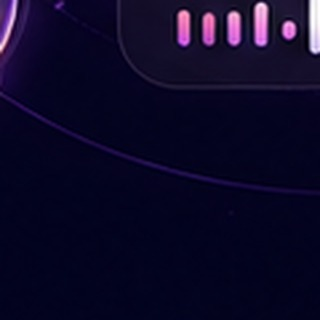
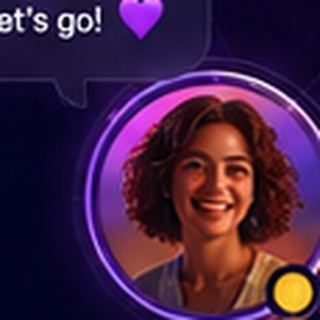
checkpoint: before final hero polish

diff --git a/src/components/hero/hero-section.tsx b/src/components/hero/hero-section.tsx
@@ -4,7 +4,6 @@ import Image from "next/image";
 import Link from "next/link";
 import {
   ArrowDown,
-  ArrowRight,
   Globe2,
   Monitor,
   Play,
@@ -25,41 +24,46 @@ type Member = {
   active?: boolean;
   status: string;
   message: string;
+  bubble: string;
 };
 
 const members: Member[] = [
   {
     name: "Maya",
     avatar: "/avatars/maya.jpg",
-    position: "left-[2%] top-[17%]",
+    position: "left-[5%] top-[13%]",
     delay: 0,
     active: true,
     status: "bg-emerald-400",
     message: "Hey everyone! 👋",
+    bubble: "left-1/2 -translate-x-1/2",
   },
   {
     name: "Alex",
     avatar: "/avatars/alex.jpg",
-    position: "right-[2%] top-[20%]",
+    position: "right-[4%] top-[18%]",
     delay: 0.4,
     status: "bg-emerald-400",
     message: "Great to be here! 🚀",
+    bubble: "right-[-22px]",
   },
   {
     name: "Luna",
     avatar: "/avatars/luna.jpg",
-    position: "bottom-[11%] left-[10%]",
+    position: "bottom-[8%] left-[11%]",
     delay: 0.8,
     status: "bg-amber-300",
     message: "Let's go! 💜",
+    bubble: "left-1/2 -translate-x-1/2",
   },
   {
     name: "Noah",
     avatar: "/avatars/noah.jpg",
-    position: "bottom-[9%] right-[7%]",
+    position: "bottom-[6%] right-[8%]",
     delay: 1.2,
     status: "bg-emerald-400",
     message: "Awesome talk! 🔥",
+    bubble: "right-[-18px]",
   },
 ];
 
@@ -73,37 +77,41 @@ export function HeroSection() {
   return (
     <section className="relative overflow-hidden pt-20">
       <StarField />
-      <div className="grid-background absolute inset-0 opacity-30" />
-      <div className="noise-overlay pointer-events-none absolute inset-0 opacity-[.035]" />
-      <div className="absolute inset-0 bg-[radial-gradient(circle_at_75%_38%,rgba(192,38,255,.18),transparent_30%),radial-gradient(circle_at_20%_24%,rgba(88,28,135,.12),transparent_32%)]" />
+      <div className="grid-background absolute inset-0 opacity-25" />
+      <div className="noise-overlay pointer-events-none absolute inset-0 opacity-[0.03]" />
+      <div className="absolute inset-0 bg-[radial-gradient(circle_at_76%_36%,rgba(192,38,255,.22),transparent_29%),radial-gradient(circle_at_18%_28%,rgba(88,28,135,.14),transparent_33%)]" />
 
-      <div className="relative mx-auto grid min-h-[740px] w-full max-w-[1480px] items-center gap-10 px-5 pb-10 pt-12 sm:px-8 lg:grid-cols-[.83fr_1.17fr] lg:px-12 lg:pt-14">
+      <div className="relative mx-auto grid min-h-[625px] w-full max-w-[1320px] items-center gap-6 px-5 pb-5 pt-7 sm:px-8 lg:grid-cols-[0.82fr_1.18fr] lg:px-10">
         <motion.div
-          initial={{ opacity: 0, y: 28 }}
+          initial={{ opacity: 0, y: 24 }}
           animate={{ opacity: 1, y: 0 }}
-          transition={{ duration: .75, ease: "easeOut" }}
-          className="relative z-10 max-w-[620px]"
+          transition={{ duration: 0.7, ease: "easeOut" }}
+          className="relative z-10 max-w-[535px]"
         >
-          <div className="mb-7 inline-flex items-center gap-2 rounded-full border border-fuchsia-400/25 bg-fuchsia-400/10 px-4 py-2 text-xs font-bold uppercase tracking-[.2em] text-fuchsia-100">
+          <div className="mb-6 inline-flex items-center gap-2 rounded-full border border-fuchsia-400/25 bg-fuchsia-400/10 px-4 py-2 text-[11px] font-bold uppercase tracking-[0.2em] text-fuchsia-100">
             <Sparkles className="size-4" />
             The future of voice communities
           </div>
 
-          <h1 className="font-[family-name:var(--font-display)] text-5xl font-bold leading-[.95] tracking-[-.06em] text-white sm:text-6xl xl:text-[78px]">
+          <h1 className="font-[family-name:var(--font-display)] text-5xl font-bold leading-[0.94] tracking-[-0.06em] text-white sm:text-6xl xl:text-[66px]">
             <span className="block">Your voice.</span>
             <span className="text-gradient mt-2 block">Your community.</span>
           </h1>
 
-          <p className="mt-7 max-w-[575px] text-base leading-8 text-white/60 sm:text-lg">
-            Where conversations become communities. Meet people who understand your world, speak freely and build something meaningful together.
+          <p className="mt-6 max-w-[500px] text-[15px] leading-7 text-white/62">
+            Where conversations become communities. Meet people who understand
+            your world, speak freely and build something meaningful together.
           </p>
 
-          <div className="mt-9 flex flex-col gap-4 sm:flex-row">
-            <Link href="#download" className="premium-button focus-ring min-h-14 px-7">
+          <div className="mt-8 flex flex-col gap-3 sm:flex-row">
+            <Link href="#download" className="premium-button focus-ring min-h-12 px-6 text-sm">
               <span className="relative">Download YO Voice</span>
-              <ArrowDown className="relative size-5" />
+              <ArrowDown className="relative size-4" />
             </Link>
-            <Link href="#experience" className="focus-ring inline-flex min-h-14 items-center justify-center gap-3 rounded-2xl border border-white/15 bg-white/[.035] px-7 font-semibold text-white backdrop-blur-xl transition hover:border-white/25 hover:bg-white/[.07]">
+            <Link
+              href="#experience"
+              className="focus-ring inline-flex min-h-12 items-center justify-center gap-3 rounded-2xl border border-white/15 bg-white/[0.035] px-6 text-sm font-semibold text-white backdrop-blur-xl transition hover:border-white/25 hover:bg-white/[0.07]"
+            >
               <span className="flex size-8 items-center justify-center rounded-full bg-white text-[#0d0618]">
                 <Play className="ml-0.5 size-4 fill-current" />
               </span>
@@ -111,17 +119,22 @@ export function HeroSection() {
             </Link>
           </div>
 
-          <div className="mt-9 flex flex-wrap gap-x-7 gap-y-4 text-sm text-white/50">
+          <div className="mt-7 flex flex-wrap gap-x-6 gap-y-3 text-[13px] text-white/50">
             <span className="flex items-center gap-2"><Radio className="size-4 text-fuchsia-400" />Live voice rooms</span>
             <span className="flex items-center gap-2"><Users className="size-4 text-violet-400" />Clubs and friends</span>
             <span className="flex items-center gap-2"><Sparkles className="size-4 text-pink-400" />Built for creators</span>
           </div>
 
-          <div className="mt-10">
-            <p className="text-[10px] font-bold uppercase tracking-[.24em] text-white/30">Available across your devices</p>
-            <div className="mt-4 flex flex-wrap gap-3">
+          <div className="mt-8">
+            <p className="text-[9px] font-bold uppercase tracking-[0.24em] text-white/30">
+              Available across your devices
+            </p>
+            <div className="mt-3 flex flex-wrap gap-3">
               {platforms.map(({ label, icon: Icon }) => (
-                <div key={label} className="flex items-center gap-2 rounded-xl border border-white/[.09] bg-white/[.035] px-3.5 py-2 text-xs text-white/55 backdrop-blur-xl">
+                <div
+                  key={label}
+                  className="flex items-center gap-2 rounded-xl border border-white/[0.09] bg-white/[0.035] px-3 py-2 text-[11px] text-white/55 backdrop-blur-xl"
+                >
                   <Icon className="size-3.5 text-fuchsia-300" />
                   {label}
                 </div>
@@ -132,47 +145,70 @@ export function HeroSection() {
 
         <motion.div
           id="community"
-          initial={{ opacity: 0, scale: .92 }}
+          initial={{ opacity: 0, scale: 0.93 }}
           animate={{ opacity: 1, scale: 1 }}
-          transition={{ duration: .9, delay: .12, ease: "easeOut" }}
-          className="relative mx-auto aspect-[1.12/1] w-full max-w-[780px]"
+          transition={{ duration: 0.85, delay: 0.1, ease: "easeOut" }}
+          className="relative mx-auto aspect-[1.16/1] w-full max-w-[690px]"
         >
-          <div className="absolute inset-[8%] rounded-full border border-fuchsia-300/[.12]" />
-          <div className="absolute inset-[19%] rounded-full border border-fuchsia-300/[.15]" />
-          <div className="absolute inset-[31%] rounded-full border border-fuchsia-300/[.18]" />
+          <div className="absolute inset-[7%] rounded-full border border-fuchsia-300/[0.13]" />
+          <div className="absolute inset-[18%] rounded-full border border-fuchsia-300/[0.16]" />
+          <div className="absolute inset-[31%] rounded-full border border-fuchsia-300/[0.2]" />
 
           <motion.div
             animate={{ rotate: 360 }}
             transition={{ duration: 72, repeat: Infinity, ease: "linear" }}
-            className="absolute inset-[13%] rounded-full border border-dashed border-fuchsia-300/[.16]"
+            className="absolute inset-[12%] rounded-full border border-dashed border-fuchsia-300/[0.16]"
           />
 
-          <div className="absolute left-1/2 top-1/2 h-[2px] w-[53%] -translate-x-1/2 -translate-y-1/2 bg-gradient-to-r from-transparent via-fuchsia-400/55 to-transparent shadow-[0_0_20px_rgba(232,121,249,.45)]" />
+          <div className="absolute left-1/2 top-1/2 h-[2px] w-[54%] -translate-x-1/2 -translate-y-1/2 bg-gradient-to-r from-transparent via-fuchsia-400/60 to-transparent shadow-[0_0_22px_rgba(232,121,249,.48)]" />
 
           <motion.div
-            animate={{ scale: [1, 1.055, 1], filter: ["brightness(1)", "brightness(1.18)", "brightness(1)"] }}
+            animate={{
+              scale: [1, 1.045, 1],
+              filter: ["brightness(1)", "brightness(1.15)", "brightness(1)"],
+            }}
             transition={{ duration: 3, repeat: Infinity, ease: "easeInOut" }}
-            className="absolute inset-[37%] flex items-center justify-center rounded-full border border-fuchsia-200/35 bg-[#09030f] shadow-[0_0_130px_rgba(192,38,255,.58)]"
+            className="absolute inset-[39%] flex items-center justify-center rounded-full border border-fuchsia-200/35 bg-[#09030f] shadow-[0_0_115px_rgba(192,38,255,.6)]"
           >
-            <motion.span className="absolute inset-[-22%] rounded-full border border-fuchsia-300/15" animate={{ scale: [.82, 1.28], opacity: [.55, 0] }} transition={{ duration: 2.5, repeat: Infinity, ease: "easeOut" }} />
-            <motion.span className="absolute inset-[-42%] rounded-full border border-violet-300/10" animate={{ scale: [.8, 1.2], opacity: [.35, 0] }} transition={{ duration: 3.2, delay: .7, repeat: Infinity, ease: "easeOut" }} />
-            <Image src="/logos/yovoice-logo.png" alt="YO Voice community heart" fill className="rounded-full object-cover mix-blend-screen" priority />
+            <motion.span
+              className="absolute inset-[-22%] rounded-full border border-fuchsia-300/16"
+              animate={{ scale: [0.82, 1.28], opacity: [0.55, 0] }}
+              transition={{ duration: 2.5, repeat: Infinity, ease: "easeOut" }}
+            />
+            <Image
+              src="/logos/yovoice-logo.png"
+              alt="YO Voice community heart"
+              fill
+              className="rounded-full object-cover mix-blend-screen"
+              priority
+            />
           </motion.div>
 
           {members.map((member, index) => (
             <motion.div
               key={member.name}
-              animate={{ y: [0, index % 2 === 0 ? -8 : 8, 0], x: [0, index % 2 === 0 ? 4 : -4, 0] }}
-              transition={{ duration: 4 + index * .35, repeat: Infinity, ease: "easeInOut", delay: member.delay }}
+              animate={{
+                y: [0, index % 2 === 0 ? -7 : 7, 0],
+                x: [0, index % 2 === 0 ? 4 : -4, 0],
+              }}
+              transition={{
+                duration: 4 + index * 0.35,
+                repeat: Infinity,
+                ease: "easeInOut",
+                delay: member.delay,
+              }}
               className={`absolute ${member.position}`}
             >
               <div className="relative">
                 <motion.div
-                  animate={{ opacity: [0, 1, 1, 0], y: [8, 0, 0, -5] }}
-                  transition={{ duration: 5.4, repeat: Infinity, delay: member.delay * 1.8 + .6, times: [0, .12, .82, 1] }}
-                  className={`absolute bottom-[calc(100%+16px)] z-20 whitespace-nowrap rounded-2xl border border-white/10 bg-[#171022]/92 px-4 py-3 text-xs font-medium text-white shadow-[0_14px_38px_rgba(0,0,0,.35)] backdrop-blur-xl ${
-                    index % 2 === 0 ? "left-1/2 -translate-x-1/2" : "right-0"
-                  }`}
+                  animate={{ opacity: [0, 1, 1, 0], y: [7, 0, 0, -5] }}
+                  transition={{
+                    duration: 5.6,
+                    repeat: Infinity,
+                    delay: member.delay * 1.9 + 0.5,
+                    times: [0, 0.12, 0.82, 1],
+                  }}
+                  className={`absolute bottom-[calc(100%+14px)] z-20 whitespace-nowrap rounded-2xl border border-white/10 bg-[#171022]/94 px-4 py-3 text-[11px] font-medium text-white shadow-[0_14px_38px_rgba(0,0,0,.35)] backdrop-blur-xl ${member.bubble}`}
                 >
                   {member.message}
                   <span className="absolute -bottom-1.5 left-1/2 size-3 -translate-x-1/2 rotate-45 border-b border-r border-white/10 bg-[#171022]" />
@@ -180,39 +216,66 @@ export function HeroSection() {
 
                 {member.active && (
                   <>
-                    <motion.span className="absolute inset-[-20px] rounded-full border border-fuchsia-300/30" animate={{ scale: [.82, 1.55], opacity: [.85, 0] }} transition={{ duration: 1.8, repeat: Infinity, ease: "easeOut" }} />
-                    <motion.span className="absolute inset-[-11px] rounded-full border border-fuchsia-300/35" animate={{ scale: [.9, 1.85], opacity: [.68, 0] }} transition={{ duration: 2.25, delay: .45, repeat: Infinity, ease: "easeOut" }} />
+                    <motion.span
+                      className="absolute inset-[-18px] rounded-full border border-fuchsia-300/30"
+                      animate={{ scale: [0.82, 1.52], opacity: [0.8, 0] }}
+                      transition={{ duration: 1.8, repeat: Infinity, ease: "easeOut" }}
+                    />
+                    <motion.span
+                      className="absolute inset-[-10px] rounded-full border border-fuchsia-300/35"
+                      animate={{ scale: [0.9, 1.8], opacity: [0.66, 0] }}
+                      transition={{ duration: 2.2, delay: 0.45, repeat: Infinity, ease: "easeOut" }}
+                    />
                   </>
                 )}
 
-                <div className="relative size-[76px] overflow-hidden rounded-full border-2 border-fuchsia-300/55 bg-[#150c22] p-[3px] shadow-[0_0_30px_rgba(192,38,255,.45)]">
-                  <Image src={member.avatar} alt={`${member.name} avatar`} fill className="rounded-full object-cover" />
+                <div className="relative size-[70px] overflow-hidden rounded-full border-2 border-fuchsia-300/60 bg-[#150c22] p-[3px] shadow-[0_0_30px_rgba(192,38,255,.48)]">
+                  <Image
+                    src={member.avatar}
+                    alt={`${member.name} avatar`}
+                    fill
+                    className="rounded-full object-cover"
+                    sizes="70px"
+                  />
                   <span className={`absolute bottom-0 right-0 size-4 rounded-full border-[3px] border-[#12091e] ${member.status}`} />
                 </div>
-                <span className="absolute -bottom-7 left-1/2 -translate-x-1/2 whitespace-nowrap text-xs font-medium text-white/62">{member.name}</span>
+                <span className="absolute -bottom-6 left-1/2 -translate-x-1/2 whitespace-nowrap text-[11px] font-medium text-white/62">
+                  {member.name}
+                </span>
               </div>
             </motion.div>
           ))}
 
           <motion.div
-            animate={{ y: [0, -4, 0] }}
+            animate={{ y: [0, -3, 0] }}
             transition={{ duration: 3.4, repeat: Infinity, ease: "easeInOut" }}
-            className="glass-panel absolute bottom-[14%] left-1/2 w-[255px] -translate-x-1/2 rounded-2xl px-5 py-4 text-center"
+            className="glass-panel absolute bottom-[11%] left-1/2 w-[235px] -translate-x-1/2 rounded-2xl px-5 py-4 text-center"
           >
-            <p className="text-[9px] font-bold uppercase tracking-[.22em] text-fuchsia-300/80">Heart of the Community</p>
+            <p className="text-[8px] font-bold uppercase tracking-[0.22em] text-fuchsia-300/80">
+              Heart of the Community
+            </p>
             <p className="mt-1.5 text-sm font-semibold text-white">Maya is speaking</p>
             <div className="mt-3 flex h-5 items-end justify-center gap-1">
               {[10, 18, 13, 20, 15, 8, 17, 11, 14, 19].map((height, i) => (
-                <motion.span key={i} animate={{ height: [5, height, 5] }} transition={{ duration: .65 + i * .05, repeat: Infinity, ease: "easeInOut" }} className="w-1 rounded-full bg-gradient-to-t from-violet-500 to-fuchsia-300" />
+                <motion.span
+                  key={i}
+                  animate={{ height: [5, height, 5] }}
+                  transition={{ duration: 0.65 + i * 0.05, repeat: Infinity, ease: "easeInOut" }}
+                  className="w-1 rounded-full bg-gradient-to-t from-violet-500 to-fuchsia-300"
+                />
               ))}
             </div>
           </motion.div>
         </motion.div>
       </div>
 
-      <div className="relative mx-auto max-w-[1420px] px-5 pb-8 sm:px-8 lg:px-12">
-        <a href="#stats" className="focus-ring mx-auto flex size-11 items-center justify-center rounded-xl border border-white/10 bg-white/[.035] text-white/60 transition hover:bg-white/[.07] hover:text-white" aria-label="Scroll to statistics">
-          <ArrowDown className="size-5" />
+      <div className="relative mx-auto max-w-[1320px] px-5 pb-5 sm:px-8 lg:px-10">
+        <a
+          href="#stats"
+          className="focus-ring mx-auto flex size-10 items-center justify-center rounded-xl border border-white/10 bg-white/[0.035] text-white/60 transition hover:bg-white/[0.07] hover:text-white"
+          aria-label="Scroll to statistics"
+        >
+          <ArrowDown className="size-4" />
         </a>
       </div>
     </section>

diff --git a/src/components/sections/stats-section.tsx b/src/components/sections/stats-section.tsx
@@ -9,13 +9,20 @@ const stats = [
 
 export function StatsSection() {
   return (
-    <section id="stats" className="relative bg-[#060511] px-5 pb-10 sm:px-8 lg:px-12">
-      <div className="mx-auto grid max-w-[1400px] overflow-hidden rounded-2xl border border-fuchsia-300/[.14] bg-[#0b0817]/78 shadow-[0_20px_80px_rgba(0,0,0,.25)] backdrop-blur-xl sm:grid-cols-2 lg:grid-cols-4">
+    <section id="stats" className="relative bg-[#060511] px-5 pb-8 sm:px-8 lg:px-10">
+      <div className="mx-auto grid max-w-[1320px] overflow-hidden rounded-2xl border border-fuchsia-300/[0.14] bg-[#0b0817]/82 shadow-[0_20px_80px_rgba(0,0,0,.25)] backdrop-blur-xl sm:grid-cols-2 lg:grid-cols-4">
         {stats.map(({ icon: Icon, value, label }, index) => (
-          <div key={label} className={`flex items-center justify-center gap-5 px-8 py-7 ${index ? "border-t border-white/[.08] sm:border-l sm:border-t-0" : ""}`}>
-            <Icon className="size-9 text-fuchsia-400" />
+          <div
+            key={label}
+            className={`flex items-center justify-center gap-4 px-7 py-6 ${
+              index ? "border-t border-white/[0.08] sm:border-l sm:border-t-0" : ""
+            }`}
+          >
+            <Icon className="size-8 text-fuchsia-400" />
             <div>
-              <div className="font-[family-name:var(--font-display)] text-3xl font-bold text-white">{value}</div>
+              <div className="font-[family-name:var(--font-display)] text-3xl font-bold text-white">
+                {value}
+              </div>
               <div className="text-xs text-white/45">{label}</div>
             </div>
           </div>
